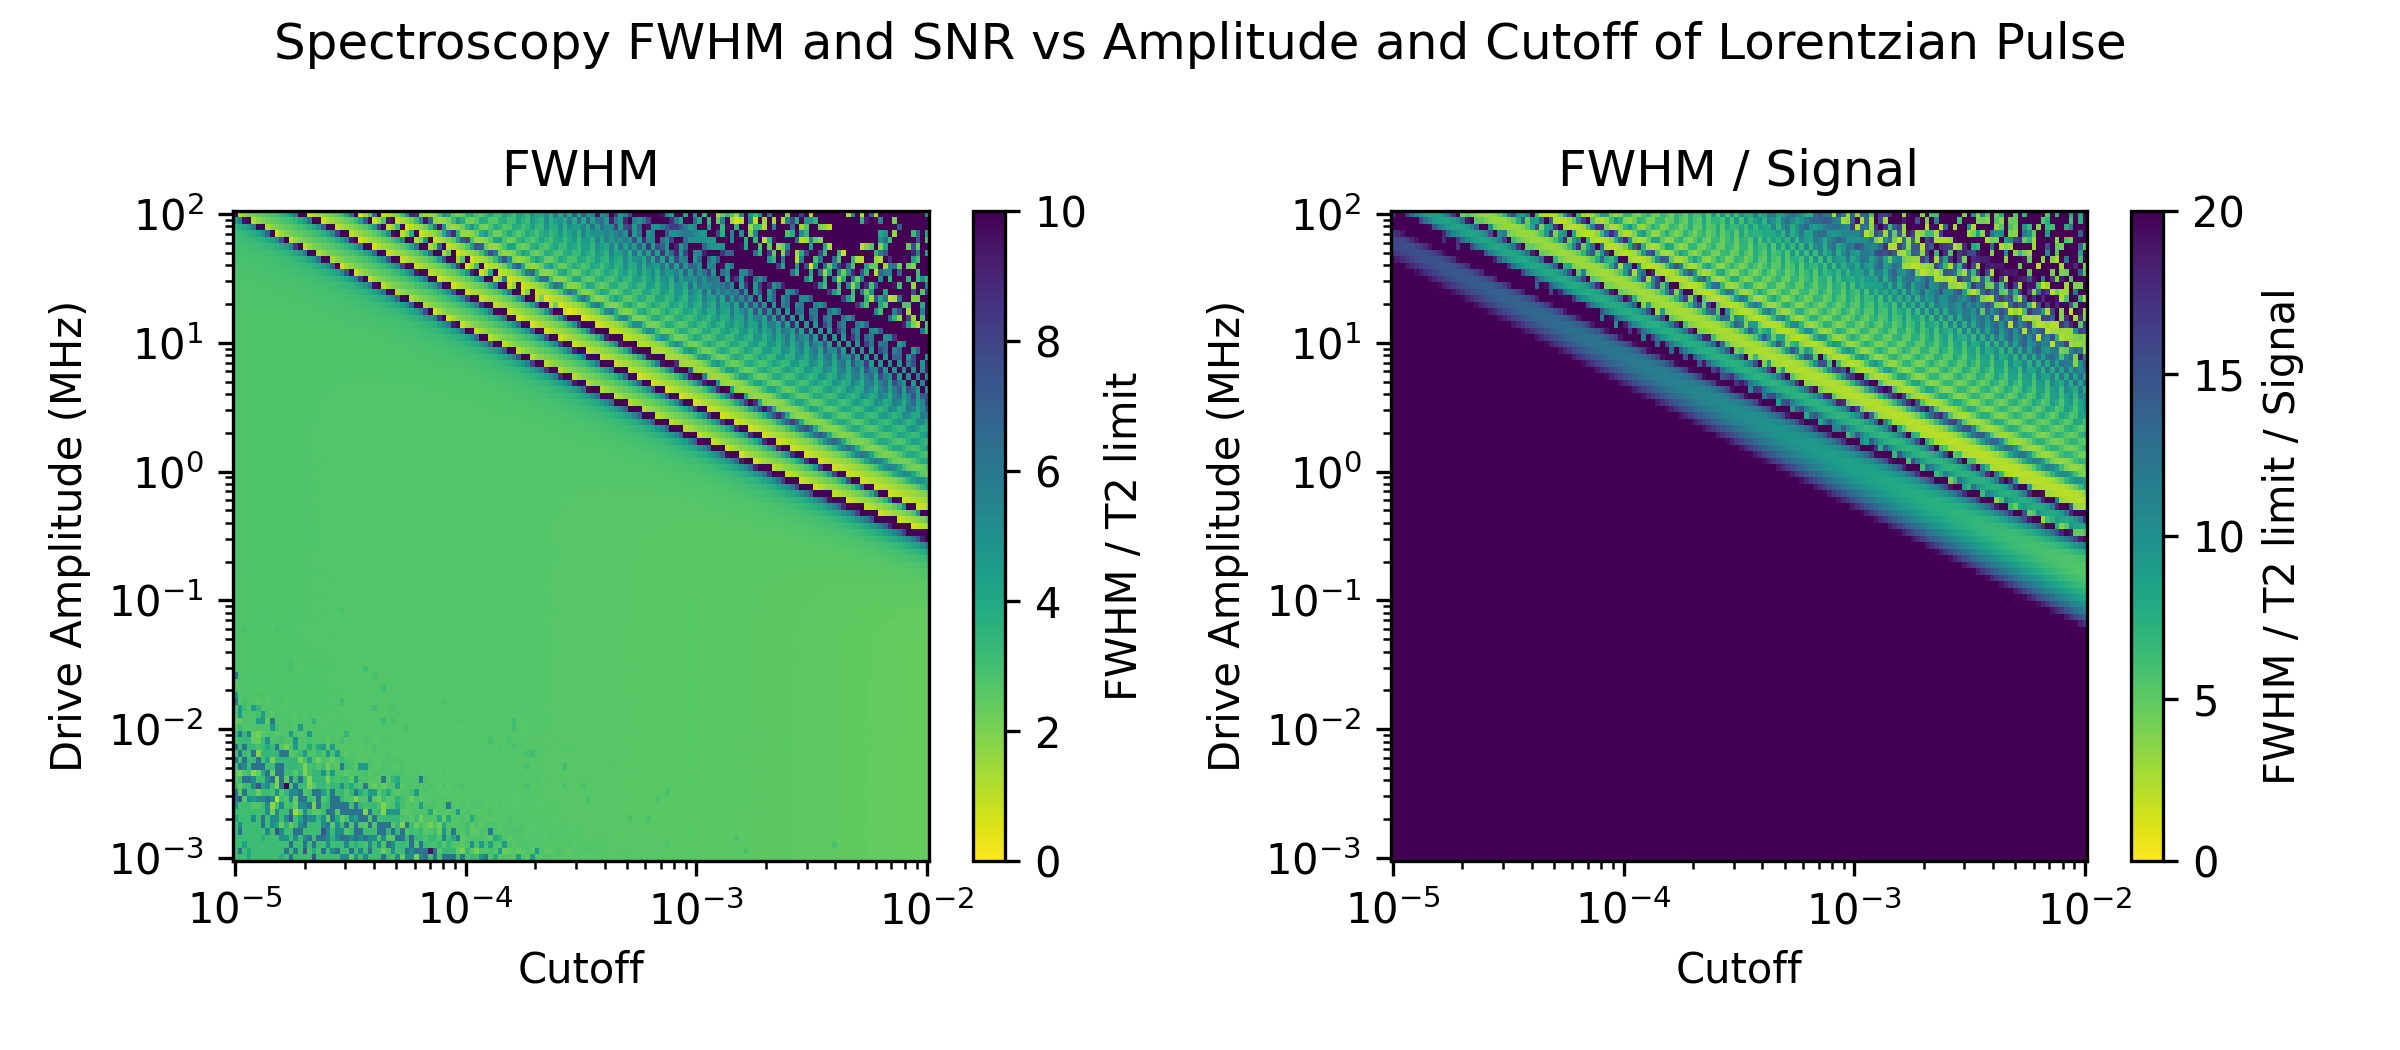
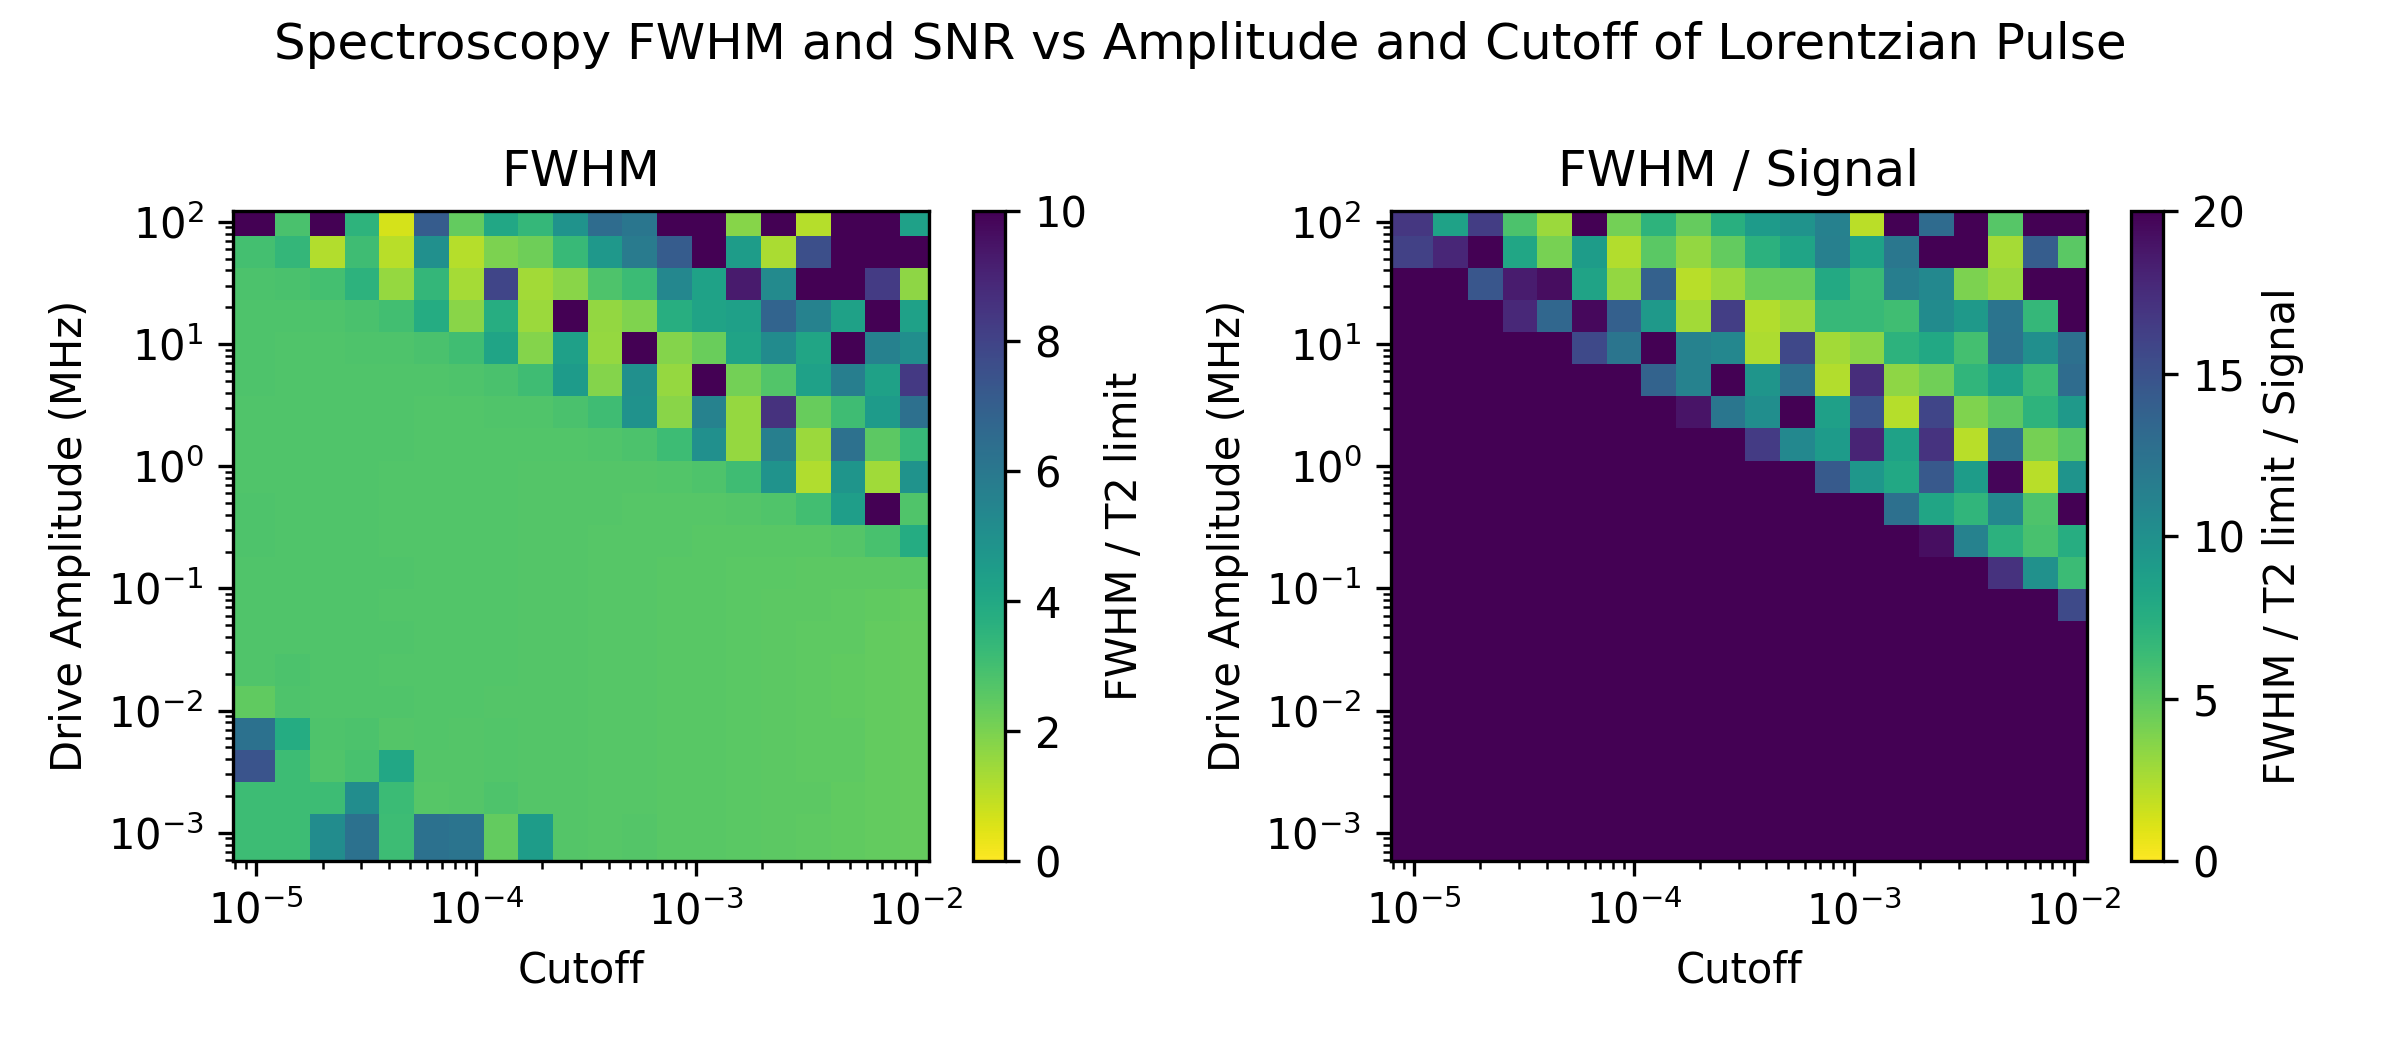
...

diff --git a/echospec/experiments/spectrsocopy_vs_amplitude_vs_cutoff.py b/echospec/experiments/spectrsocopy_vs_amplitude_vs_cutoff.py
@@ -3,7 +3,7 @@ from copy import copy
 
 from matplotlib import pyplot as plt
 import numpy as np
-from dataclasses import dataclass
+from dataclasses import dataclass, asdict
 from typing import Optional
 from pathlib import Path
 from tqdm.auto import tqdm
@@ -150,6 +150,8 @@ class AmplitudeSweepSpectroscopy(BaseExperiment[ResultsSpectroscopy2D]):
 # %%
 if __name__ == "__main__":
 
+    echo = False
+
     options = OptionsSpectroscopy2d()
     options.plot = True
     options.save = False
@@ -157,7 +159,7 @@ if __name__ == "__main__":
     options.with_fwhm = True
 
     params = Parameters(
-        eco_pulse=False,
+        eco_pulse=echo,
         pulse_type=PulseType.LORENTZIAN,
         pulse_length=50 * u.us,
         cutoff=1e-4,
@@ -172,13 +174,13 @@ if __name__ == "__main__":
     amplitudes = np.logspace(
         -3,
         2,
-        100,
+        200,
     ) * 2 * np.pi * u.MHz
 
     cutoff_vector = np.logspace(
         -2,
         -5,
-        150,
+        200,
     )
     fwhm_matrix = []
     snr_matrix = []
@@ -203,156 +205,64 @@ if __name__ == "__main__":
 
     fwhm_matrix = np.array(fwhm_matrix)
     snr_matrix = np.array(snr_matrix)
-    plt.xscale("log")
-    plt.show()
+
+    np.savez(
+        "spectroscopy_data.npz",
+        detunings=detunings,
+        amplitudes=amplitudes,
+        cutoff_vector=cutoff_vector,
+        fwhm_matrix=fwhm_matrix,
+        snr_matrix=snr_matrix,
+        options=asdict(options),
+        params=asdict(params),
+    )
+    # plt.xscale("log")
+    # plt.show()
 
     # %%
 
-    # %%
+#     # %%
 
-    fig, axs = plt.subplots(1, 2, figsize=(8, 3.5))
-    mat1 = np.array(fwhm_matrix).T / params.T2_limit/2/np.pi
+#     fig, axs=plt.subplots(1, 2, figsize=(8, 3.5))
+#     mat1=np.array(fwhm_matrix).T / params.T2_limit/2/np.pi
 
-    mat2 = mat1/snr_matrix.T
-    c1 = axs[0].pcolormesh(
-        cutoff_vector,
-        amplitudes / u.pi2 / u.MHz,
-        np.array(fwhm_matrix).T / params.T2_limit/2/np.pi,
-        shading="auto",
-        vmin=0,
-        vmax=10,
-        cmap="viridis_r",
-    )
-    axs[0].set_xscale("log")
-    axs[0].set_yscale("log")
-    axs[0].set_xlabel("Cutoff")
-    axs[0].set_ylabel("Drive Amplitude (MHz)")
-    axs[0].set_title("FWHM")
-    fig.colorbar(c1, ax=axs[0], label="FWHM / T2 limit")
+#     mat2=mat1/snr_matrix.T
+#     c1=axs[0].pcolormesh(
+#         cutoff_vector,
+#         amplitudes / u.pi2 / u.MHz,
+#         np.array(fwhm_matrix).T / params.T2_limit/2/np.pi,
+#         shading="auto",
+#         vmin=0,
+#         vmax=10,
+#         cmap="viridis_r",
+#     )
+#     axs[0].set_xscale("log")
+#     axs[0].set_yscale("log")
+#     axs[0].set_xlabel("Cutoff")
+#     axs[0].set_ylabel("Drive Amplitude (MHz)")
+#     axs[0].set_title("FWHM")
+#     fig.colorbar(c1, ax=axs[0], label="FWHM / T2 limit")
 
-    c2 = axs[1].pcolormesh(
-        cutoff_vector,
-        amplitudes / u.pi2 / u.MHz,
-        mat2,
-        shading="auto",
-        vmin=0,
-        vmax=20,
-        cmap="viridis_r",
-    )
-    axs[1].set_xscale("log")
-    axs[1].set_yscale("log")
-    axs[1].set_xlabel("Cutoff")
-    axs[1].set_ylabel("Drive Amplitude (MHz)")
-    axs[1].set_title("FWHM / Signal")
-    fig.colorbar(c2, ax=axs[1], label="FWHM / T2 limit / Signal")
+#     c2=axs[1].pcolormesh(
+#         cutoff_vector,
+#         amplitudes / u.pi2 / u.MHz,
+#         mat2,
+#         shading="auto",
+#         vmin=0,
+#         vmax=20,
+#         cmap="viridis_r",
+#     )
+#     axs[1].set_xscale("log")
+#     axs[1].set_yscale("log")
+#     axs[1].set_xlabel("Cutoff")
+#     axs[1].set_ylabel("Drive Amplitude (MHz)")
+#     axs[1].set_title("FWHM / Signal")
+#     fig.colorbar(c2, ax=axs[1], label="FWHM / T2 limit / Signal")
 
-    fig.suptitle("Spectroscopy FWHM and SNR vs Amplitude and Cutoff of Lorentzian Pulse")
-    plt.tight_layout()
-    plt.savefig("spectroscopy_fwhm_snr_vs_amplitude_vs_cutoff.png", dpi=300)
-    plt.show()
+#     fig.suptitle(
+#         "Spectroscopy FWHM and SNR vs Amplitude and Cutoff of Lorentzian Pulse")
+#     plt.tight_layout()
+#     plt.savefig("spectroscopy_fwhm_snr_vs_amplitude_vs_cutoff.png", dpi=300)
+#     plt.show()
 
-# # %%
-
-
-# %%
-
-    options = OptionsSpectroscopy2d()
-    options.plot = True
-    options.save = False
-    options.noise = 00
-    options.with_fwhm = True
-
-    params = Parameters(
-        eco_pulse=True,
-        pulse_type=PulseType.LORENTZIAN,
-        pulse_length=50 * u.us,
-        cutoff=1e-4,
-    )
-
-    detunings = np.linspace(
-        -0.1 * u.pi2 * u.MHz,
-        +0.1 * u.pi2 * u.MHz,
-        101,
-    )
-
-    amplitudes = np.logspace(
-        -3,
-        2,
-        100,
-    ) * 2 * np.pi * u.MHz
-
-    cutoff_vector = np.logspace(
-        -2,
-        -5,
-        100,
-    )
-    fwhm_matrix = []
-    snr_matrix = []
-
-    for i, cutoff in enumerate(cutoff_vector):
-        print(f"Cutoff {i+1}/{len(cutoff_vector)}: {cutoff:.1e}")
-
-        params.cutoff = cutoff
-        sweep = AmplitudeSweepSpectroscopy(
-            amplitudes=amplitudes,
-            detunings=detunings,
-            params=params,
-            options=options,
-        )
-        data = sweep.run()
-
-        fwhm_vector = data.fwhm_map
-        snr_vector = data.snr_map
-        fwhm_matrix.append(fwhm_vector)
-        snr_matrix.append(snr_vector)
-        plt.plot(amplitudes / u.pi2 / u.MHz, fwhm_vector / u.pi2 / u.MHz)
-
-    fwhm_matrix = np.array(fwhm_matrix)
-    snr_matrix = np.array(snr_matrix)
-    plt.xscale("log")
-    plt.show()
-
-    # %%
-
-    # %%
-
-    fig, axs = plt.subplots(1, 2, figsize=(8, 3.5))
-    mat1 = np.array(fwhm_matrix).T / params.T2_limit/2/np.pi
-
-    mat2 = mat1/snr_matrix.T
-    c1 = axs[0].pcolormesh(
-        cutoff_vector,
-        amplitudes / u.pi2 / u.MHz,
-        np.array(fwhm_matrix).T / params.T2_limit/2/np.pi,
-        shading="auto",
-        vmin=0,
-        vmax=10,
-        cmap="viridis_r",
-    )
-    axs[0].set_xscale("log")
-    axs[0].set_yscale("log")
-    axs[0].set_xlabel("Cutoff")
-    axs[0].set_ylabel("Drive Amplitude (MHz)")
-    axs[0].set_title("FWHM")
-    fig.colorbar(c1, ax=axs[0], label="FWHM / T2 limit")
-
-    c2 = axs[1].pcolormesh(
-        cutoff_vector,
-        amplitudes / u.pi2 / u.MHz,
-        mat2,
-        shading="auto",
-        vmin=0,
-        vmax=20,
-        cmap="viridis_r",
-    )
-    axs[1].set_xscale("log")
-    axs[1].set_yscale("log")
-    axs[1].set_xlabel("Cutoff")
-    axs[1].set_ylabel("Drive Amplitude (MHz)")
-    axs[1].set_title("FWHM / Signal")
-    fig.colorbar(c2, ax=axs[1], label="FWHM / T2 limit / Signal")
-
-    fig.suptitle("Spectroscopy FWHM and SNR vs Amplitude and Cutoff of Echo Lorentzian Pulse")
-    plt.tight_layout()
-    plt.savefig("spectroscopy_fwhm_snr_vs_amplitude_vs_cutoff_Echo.png", dpi=300)
-    plt.show()
+# # # %%
